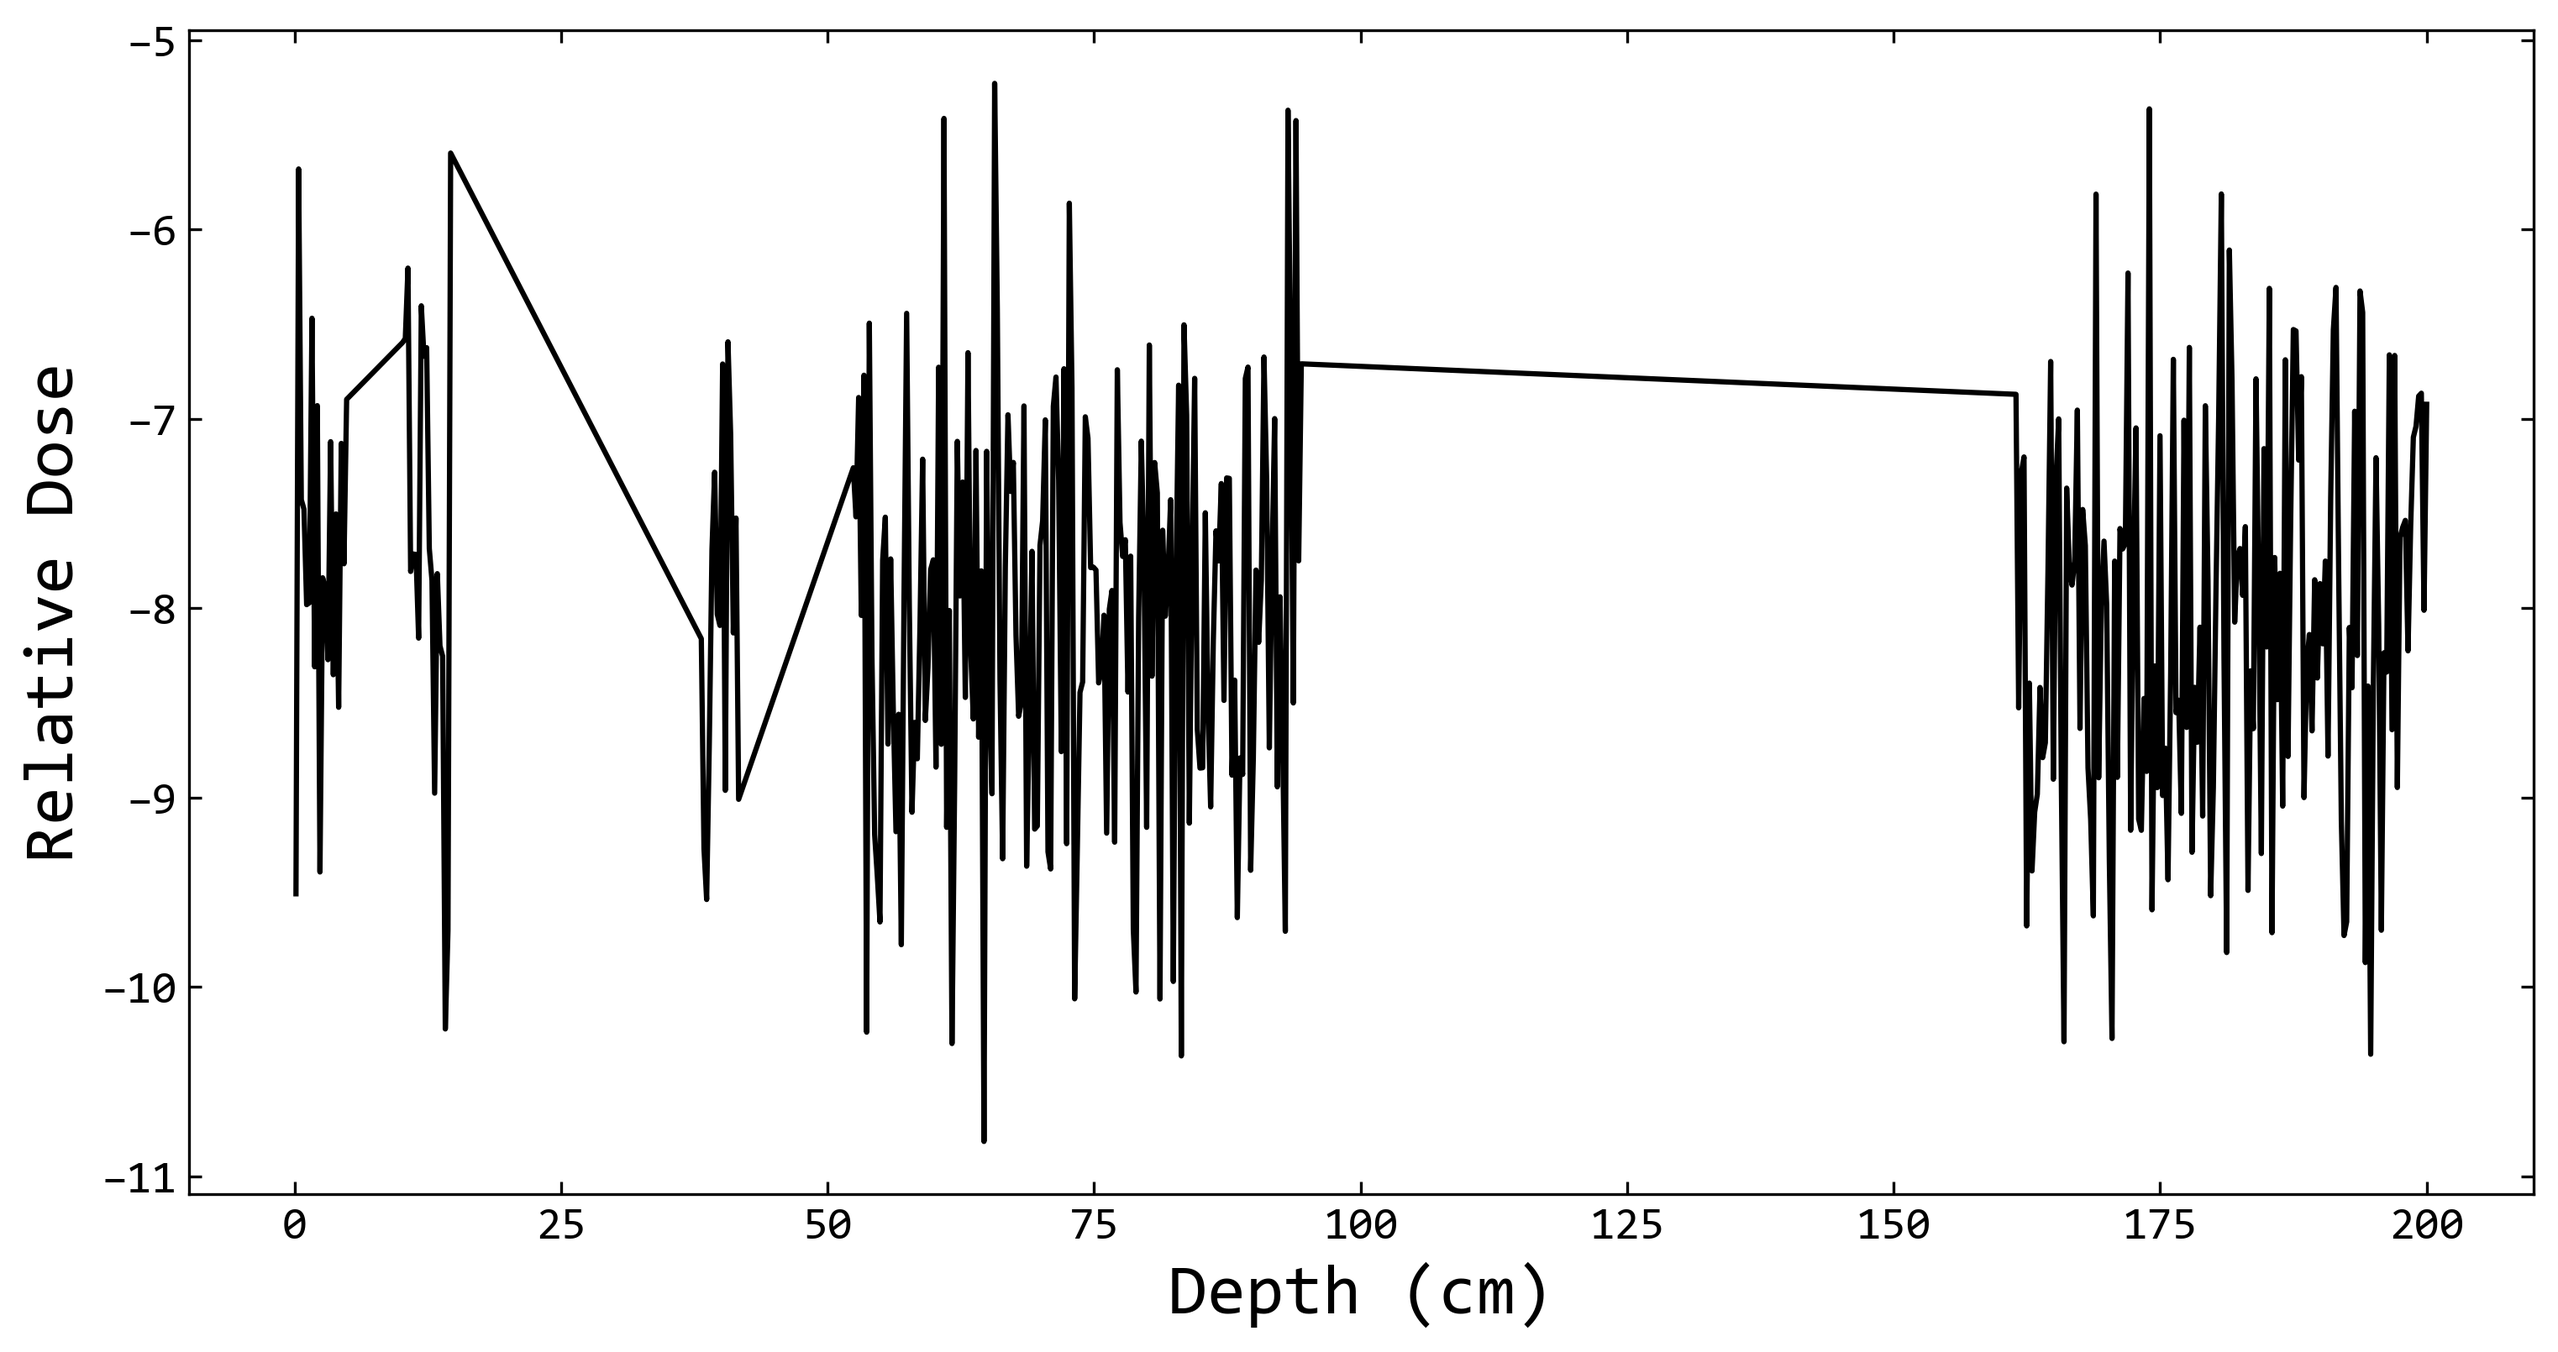
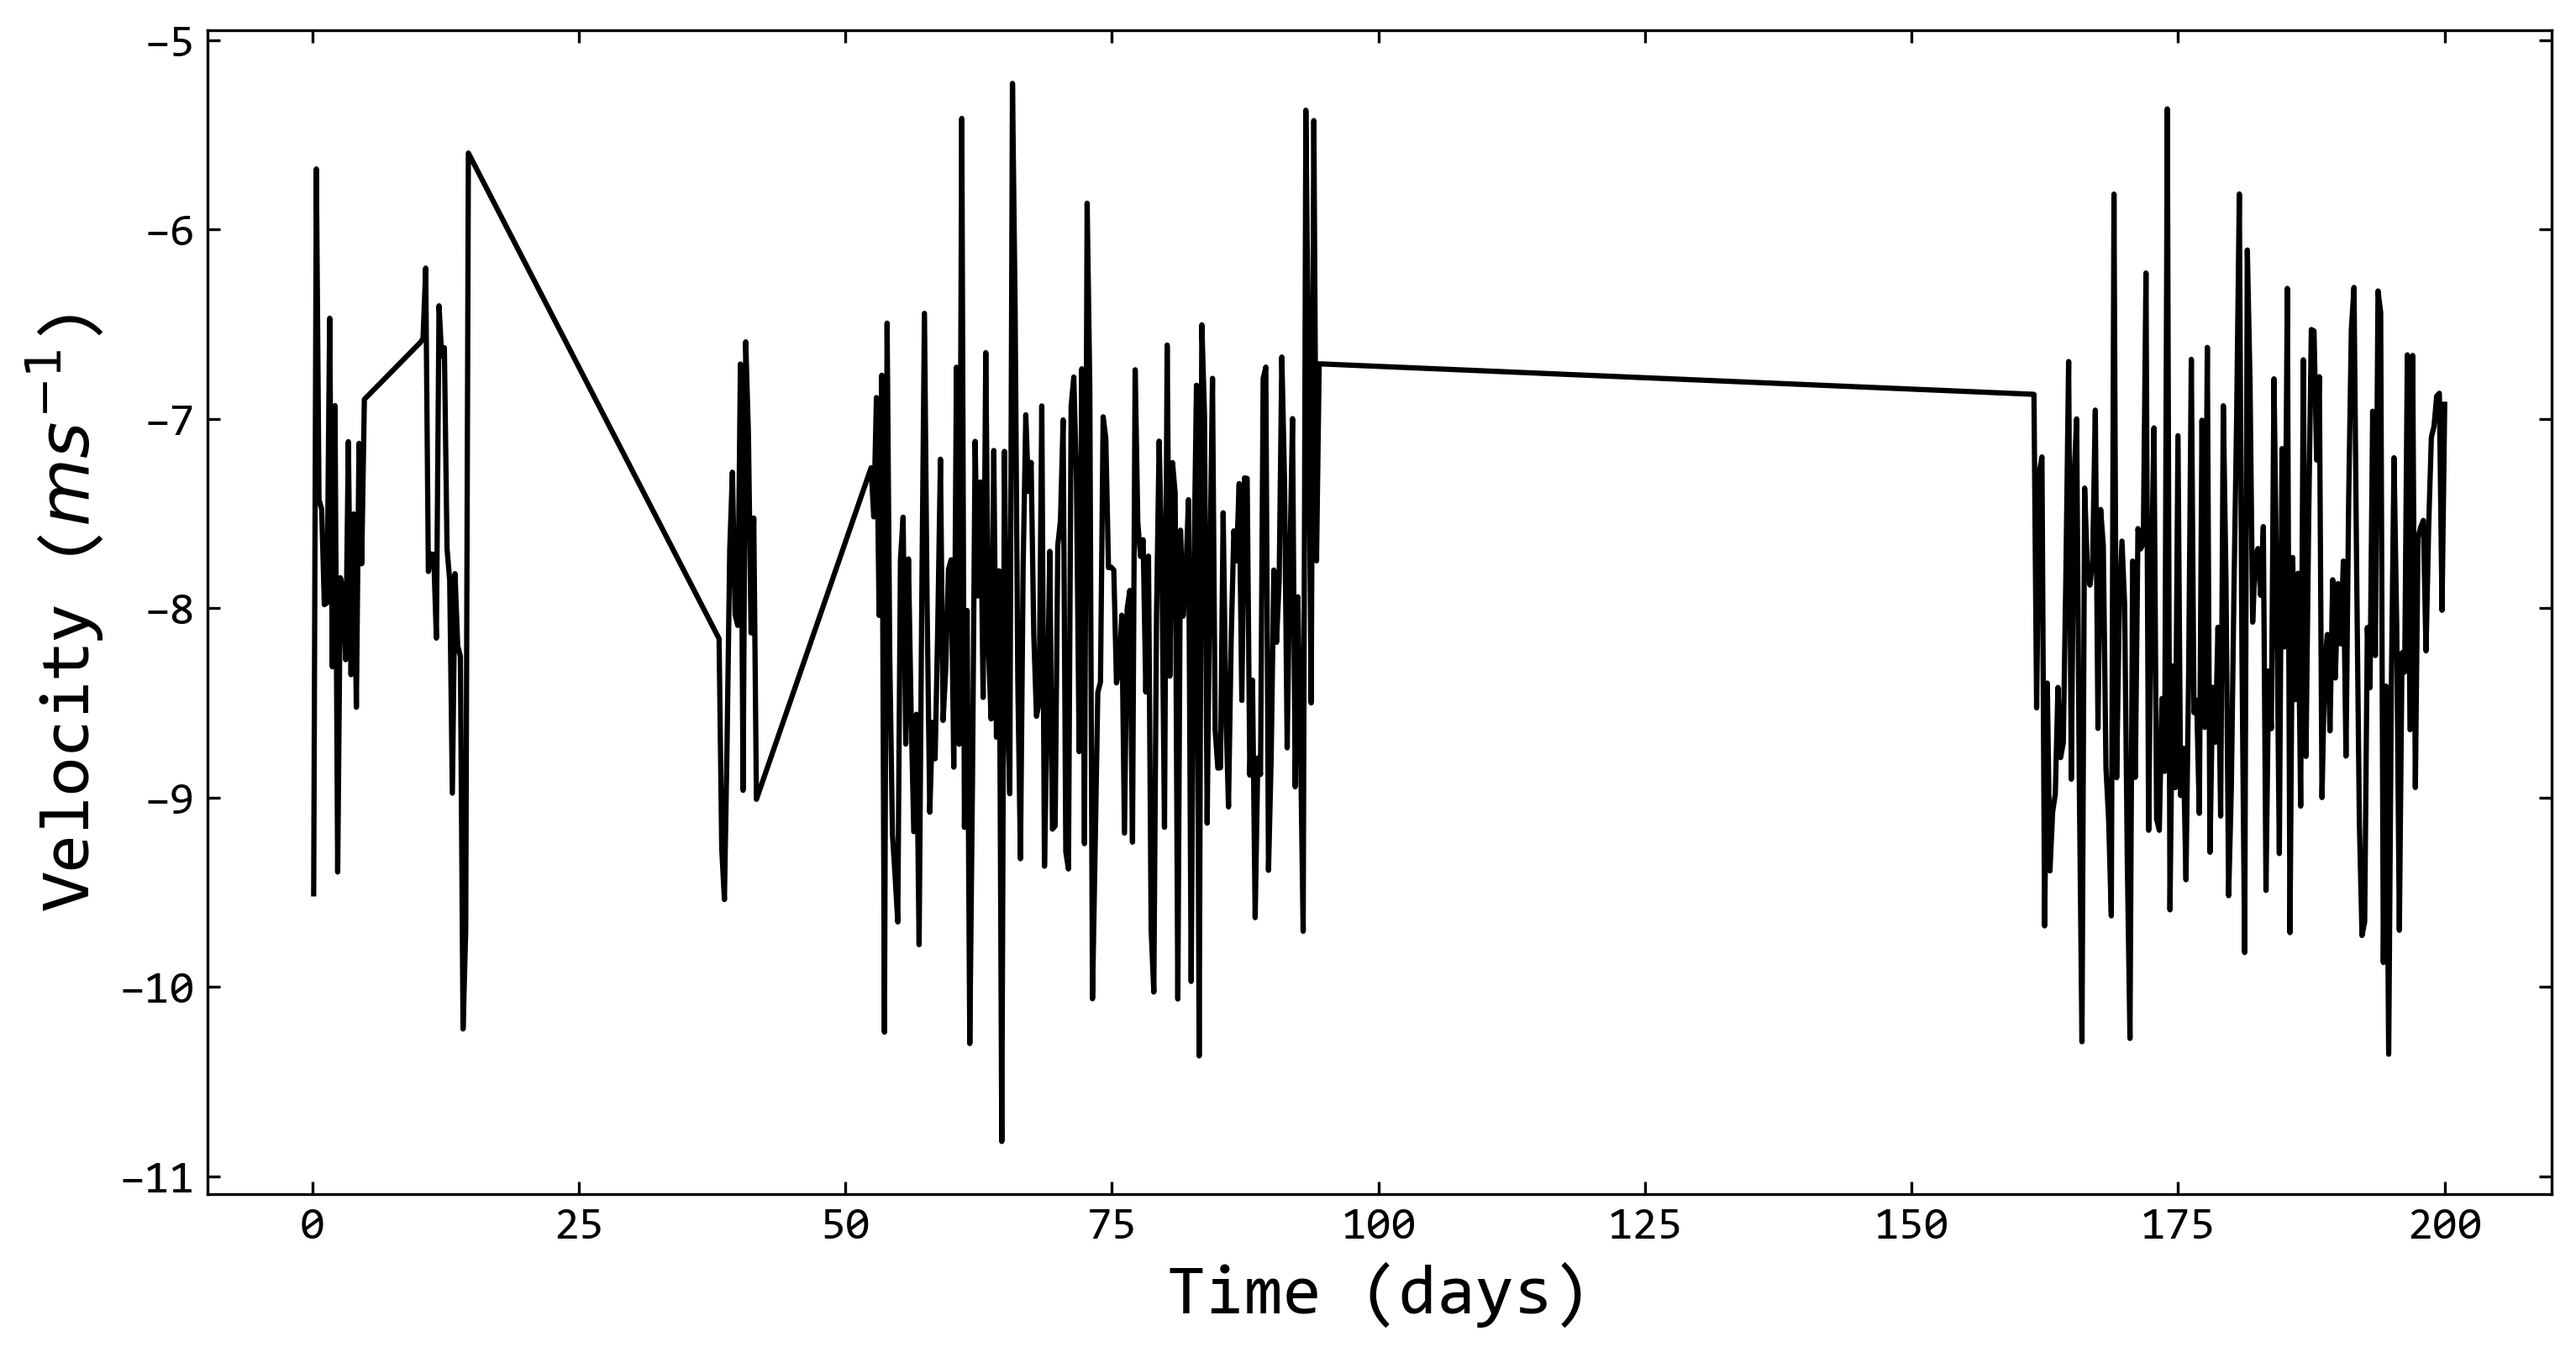
plottoing function

diff --git a/PHY4005/q7.py b/PHY4005/q7.py
@@ -32,23 +32,18 @@ data_uncertainties = {
     'Watsons_star_RVs': Watsons_star_RVs_uncertainties
 }
 
+def my_plot(x, y, x_label, y_label, filename):
 
-
-for data in data_files:
     fig, ax = plt.subplots(figsize=(12, 6))
 
-    ax.plot(
-        Observing_times,
-        data_files[data],
-        'k'
-    )
+    ax.plot(x, y, 'k')
 
     ax.set_xlabel(
-        'Depth (cm)',
+        x_label,
         fontsize=20
     )
     ax.set_ylabel(
-        'Relative Dose',
+        y_label,
         fontsize=20
     )
     ax.tick_params(
@@ -69,28 +64,39 @@ for data in data_files:
     )
 
     plt.savefig(
-        f'PHY4005/plots/{data}.png',
+        filename,
         dpi=300,
         bbox_inches='tight'
     )
 
     plt.show()
 
+for data in data_files:
+
+    my_plot(
+        Observing_times,
+        data_files[data],
+        "Time (days)",
+        "Velocity ($ms^{-1}$)",
+        f'PHY4005/plots/{data}.png'
+    )
+
     # Do not search for periods greater than 50 days since features will be
     # dominated by data gaps and the baseline of the data themselves.
     max_period = 50  # in days
     min_frequency = 1.0 / max_period
 
+    # Generalised Lomb Scargle periodogram
     frequency, power = LombScargle(
         Observing_times,
         data_files[data],
         dy=data_uncertainties[data]
     ).autopower(minimum_frequency=min_frequency)
 
-    plt.figure(figsize=(10, 5))
-    plt.plot(1 / frequency, power)  # Convert frequency to period
-    plt.xlabel('Period')
-    plt.ylabel('GLS Power')
-    plt.title('Generalized Lomb-Scargle Periodogram')
-    plt.grid(True)
-    plt.show()
+    my_plot(
+        1 / frequency,
+        power,
+        "Period",
+        "GLS Power",
+        f'PHY4005/plots/{data}_GLS.png'
+    )
